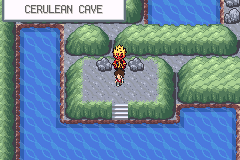
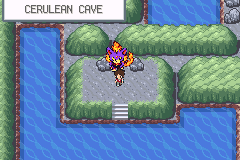
Give capturable feline Enma its own overworld, preserve human Lord Enma and verify native unlock, Pokedex flags and unique capture

Changed region(s): [[0.4375, 0.25, 0.5542, 0.4688]]

diff --git a/tools/yokai/verifier_rom.py b/tools/yokai/verifier_rom.py
@@ -135,6 +135,13 @@ if enma.exists():
     im=Image.open(enma/'kyubi_overworld.png');assert im.size==(32,32)
     assert data('gObjectEventPic_YokaiKyubi')==encode4(im)
     assert data('gObjectEventPal_YokaiEnma')==(enma/'normal.gbapal').read_bytes()
+enma_creature=R/'graphics/yokai_characters/enma_creature'
+if enma_creature.exists():
+    im=Image.open(enma_creature/'overworld.png');assert im.size==(32,32) and im.mode=='P' and im.info.get('transparency')==0
+    assert data('gObjectEventPic_YokaiEnmaCreature')==encode4(im)
+    assert data('gObjectEventPal_YokaiEnmaCreature')==(enma_creature/'normal.gbapal').read_bytes()
+    assert '"OBJ_EVENT_GFX_YOKAI_ENMA_CREATURE"' in (R/'data/maps/CeruleanCave_B1F/map.json').read_text()
+    assert '"OBJ_EVENT_GFX_YOKAI_ENMA"' in (R/'data/maps/MtEmber_Summit/map.json').read_text()
 protagonists_active='graphics/yokai_characters/nathan/normal.4bpp' in (R/'src/data/object_events/object_event_graphics.h').read_text()
 def encode8(im):
     return bytes(im.getpixel((tx+x,ty+y)) for ty in range(0,im.height,8) for tx in range(0,im.width,8) for y in range(8) for x in range(8))
@@ -188,6 +195,6 @@ if boss_spec.exists():
         assert data('gObjectEventPal_Yokai'+group+'Group')==(root/'normal.gbapal').read_bytes()
         assert data('gObjectEventPic_Yokai'+person)==b''.join(encode4(ow.crop((x,0,x+width,32))) for x in range(0,width*3,width))
         boss_cameo_frames+=4
-report={'rom_sha256':hashlib.sha256(rom).hexdigest(),'rom_size':len(rom),'species_stats_and_abilities_verified':151,'encoded_display_names_verified':151,'linked_graphic_resources_verified':checks,'historical_graphics_preserved_except_whitelist':True,'evolution_edges_verified':len(evolutions),'linked_learnsets_verified':151,'french_move_and_ability_labels_verified':len(json.loads((R/'data/yokai/libelles_attaques_talents.json').read_text())),'matt_native_frames_verified':12 if matt.exists() else 0,'ariane_and_usapion_native_frames_verified':5 if ariane.exists() else 0,'enma_and_kyubi_native_frames_verified':5 if enma.exists() else 0,'protagonist_native_frame_slots_verified':146 if protagonists_active else 0,'matt_additional_intro_and_credit_frames_verified':7 if protagonists_active else 0,'additional_adventure_cameo_native_frames_verified':cameo_extra_frames,'postgame_boss_cameo_native_frames_verified':boss_cameo_frames,'emulator_tests':False,'final_shiny_artwork_validated':False,'verdict':'JALON DONNEES/GRAPHISMES LIE ; RECETTE COMPLETE NON TERMINEE'}
+report={'rom_sha256':hashlib.sha256(rom).hexdigest(),'rom_size':len(rom),'species_stats_and_abilities_verified':151,'encoded_display_names_verified':151,'linked_graphic_resources_verified':checks,'historical_graphics_preserved_except_whitelist':True,'evolution_edges_verified':len(evolutions),'linked_learnsets_verified':151,'french_move_and_ability_labels_verified':len(json.loads((R/'data/yokai/libelles_attaques_talents.json').read_text())),'matt_native_frames_verified':12 if matt.exists() else 0,'ariane_and_usapion_native_frames_verified':5 if ariane.exists() else 0,'enma_and_kyubi_native_frames_verified':5 if enma.exists() else 0,'distinct_enma_creature_frame_verified':1 if enma_creature.exists() else 0,'protagonist_native_frame_slots_verified':146 if protagonists_active else 0,'matt_additional_intro_and_credit_frames_verified':7 if protagonists_active else 0,'additional_adventure_cameo_native_frames_verified':cameo_extra_frames,'postgame_boss_cameo_native_frames_verified':boss_cameo_frames,'emulator_tests':False,'final_shiny_artwork_validated':False,'verdict':'JALON DONNEES/GRAPHISMES LIE ; RECETTE COMPLETE NON TERMINEE'}
 out=R/'QA_RECETTE_FINALE/RECONSTRUCTION/CONTROLE_ROM.json';out.parent.mkdir(parents=True,exist_ok=True);out.write_text(json.dumps(report,ensure_ascii=False,indent=2)+'\n')
 print(json.dumps(report,ensure_ascii=False,indent=2))

diff --git a/src/event_object_movement.c b/src/event_object_movement.c
@@ -475,6 +475,7 @@ static const u8 gInitialMovementTypeFacingDirections[MOVEMENT_TYPES_COUNT] = {
 #define OBJ_EVENT_PAL_TAG_YOKAI_MORLEONE_GROUP 0x1125
 #define OBJ_EVENT_PAL_TAG_YOKAI_FRIEND                 0x1120
 #define OBJ_EVENT_PAL_TAG_YOKAI_PLAYER_BRIDGE          0x111F
+#define OBJ_EVENT_PAL_TAG_YOKAI_ENMA_CREATURE 0x1126
 #define OBJ_EVENT_PAL_TAG_YOKAI_ENMA                  0x111E
 #define OBJ_EVENT_PAL_TAG_ARIANE                      0x111D
 #define OBJ_EVENT_PAL_TAG_MATT                        0x111C
@@ -497,6 +498,7 @@ static const struct SpritePalette sObjectEventSpritePalettes[] = {
     {gObjectEventPal_YokaiDonMorleoneGroup, OBJ_EVENT_PAL_TAG_YOKAI_MORLEONE_GROUP},
     {gObjectEventPal_Matt, OBJ_EVENT_PAL_TAG_MATT},
     {gObjectEventPal_Ariane, OBJ_EVENT_PAL_TAG_ARIANE},
+    {gObjectEventPal_YokaiEnmaCreature, OBJ_EVENT_PAL_TAG_YOKAI_ENMA_CREATURE},
     {gObjectEventPal_YokaiEnma, OBJ_EVENT_PAL_TAG_YOKAI_ENMA},
     {gObjectEventPal_YokaiPlayerBridge, OBJ_EVENT_PAL_TAG_YOKAI_PLAYER_BRIDGE},
     {gObjectEventPal_NpcBlue,                 OBJ_EVENT_PAL_TAG_NPC_BLUE},
@@ -532,6 +534,7 @@ static const u16 sYokaiDomniscianGroupReflectionPaletteTags[] = {OBJ_EVENT_PAL_T
 
 static const u16 sYokaiDonMorleoneGroupReflectionPaletteTags[] = {OBJ_EVENT_PAL_TAG_YOKAI_MORLEONE_GROUP, OBJ_EVENT_PAL_TAG_YOKAI_MORLEONE_GROUP, OBJ_EVENT_PAL_TAG_YOKAI_MORLEONE_GROUP, OBJ_EVENT_PAL_TAG_YOKAI_MORLEONE_GROUP};
 
+static const u16 sYokaiEnmaCreatureReflectionPaletteTags[] = {OBJ_EVENT_PAL_TAG_YOKAI_ENMA_CREATURE, OBJ_EVENT_PAL_TAG_YOKAI_ENMA_CREATURE, OBJ_EVENT_PAL_TAG_YOKAI_ENMA_CREATURE, OBJ_EVENT_PAL_TAG_YOKAI_ENMA_CREATURE};
 static const u16 sYokaiEnmaReflectionPaletteTags[] = {OBJ_EVENT_PAL_TAG_YOKAI_ENMA, OBJ_EVENT_PAL_TAG_YOKAI_ENMA, OBJ_EVENT_PAL_TAG_YOKAI_ENMA, OBJ_EVENT_PAL_TAG_YOKAI_ENMA};
 
 static const u16 sArianeReflectionPaletteTags[] = {OBJ_EVENT_PAL_TAG_ARIANE, OBJ_EVENT_PAL_TAG_ARIANE, OBJ_EVENT_PAL_TAG_ARIANE, OBJ_EVENT_PAL_TAG_ARIANE};
@@ -655,6 +658,7 @@ static const struct PairedPalettes gSpecialObjectReflectionPaletteSets[] = {
     {OBJ_EVENT_PAL_TAG_YOKAI_WYATT, sYokaiWyattReflectionPaletteTags},
     {OBJ_EVENT_PAL_TAG_YOKAI_DOMNISCIAN_GROUP, sYokaiDomniscianGroupReflectionPaletteTags},
     {OBJ_EVENT_PAL_TAG_YOKAI_MORLEONE_GROUP, sYokaiDonMorleoneGroupReflectionPaletteTags},
+    {OBJ_EVENT_PAL_TAG_YOKAI_ENMA_CREATURE, sYokaiEnmaCreatureReflectionPaletteTags},
     {OBJ_EVENT_PAL_TAG_YOKAI_ENMA,          sYokaiEnmaReflectionPaletteTags},
     {OBJ_EVENT_PAL_TAG_YOKAI_FRIEND,        sYokaiFriendReflectionPaletteTags},
     {OBJ_EVENT_PAL_TAG_RS_SUBMARINE_SHADOW, sRSSubmarineShadowReflectionPaletteTags},

diff --git a/tools/yokai/convertir_enma_creature.py b/tools/yokai/convertir_enma_creature.py
@@ -1,0 +1,20 @@
+#!/usr/bin/env python3
+"""Technical crop, nearest-neighbor sampling and GBA indexing of original artwork."""
+from pathlib import Path
+import hashlib,json
+from PIL import Image
+ROOT=Path(__file__).resolve().parents[2];D=ROOT/'graphics/yokai_characters/enma_creature';source=D/'source/generated-sprite.png'
+im=Image.open(source).convert('RGBA');alpha=im.getchannel('A').point(lambda v:255 if v>=128 else 0);im.putalpha(alpha);box=alpha.getbbox();assert box
+crop=im.crop(box);scale=min(30/crop.width,31/crop.height);crop=crop.resize((max(1,round(crop.width*scale)),max(1,round(crop.height*scale))),Image.Resampling.NEAREST)
+frame=Image.new('RGBA',(32,32));frame.alpha_composite(crop,((32-crop.width)//2,32-crop.height))
+# Quantization is solely technical; the source drawing and original species assets stay intact.
+colors=[rgb[:3] for rgb in frame.getdata() if rgb[3]];atlas=Image.new('RGB',(len(colors),1));atlas.putdata(colors)
+quantized=atlas.quantize(colors=15,method=Image.Quantize.MEDIANCUT);raw=quantized.getpalette();palette=[(0,0,0)]+[tuple((v>>3)*255//31 for v in raw[i:i+3]) for i in range(0,45,3)]
+indexed=Image.new('P',(32,32));indexed.putpalette([v for rgb in palette for v in rgb]+[0]*720)
+indexed.putdata([0 if not a else min(range(1,16),key=lambda k:sum((v-p)**2 for v,p in zip((r,g,b),palette[k]))) for r,g,b,a in frame.getdata()]);indexed.info['transparency']=0;indexed.save(D/'overworld.png',bits=4,transparency=0)
+(D/'normal.pal').write_text('JASC-PAL\n0100\n16\n'+'\n'.join(' '.join(map(str,c)) for c in palette)+'\n')
+preview=Image.new('RGB',(256,256));pix=preview.load()
+for y in range(256):
+ for x in range(256):pix[x,y]=(224,224,224) if (x//16+y//16)%2 else (176,176,176)
+sprite=indexed.convert('RGBA').resize((256,256),Image.Resampling.NEAREST);preview.paste(sprite,(0,0),sprite);preview.save(D/'preview-checkerboard.png')
+(D/'conversion.json').write_text(json.dumps({'species':150,'species_constant':'SPECIES_MEWTWO','role':'Capturable artificial celestial feline Enma, not human Lord Enma NPC','source_sha256':hashlib.sha256(source.read_bytes()).hexdigest(),'source_dimensions':list(im.size),'crop':box,'native_dimensions':[32,32],'transparent_index':0,'palette_colors':16,'animation':'Single stationary front frame, native inanimate object; no movement scene','reference':'graphics/yokai/150/front.png; approved battle art untouched'},ensure_ascii=False,indent=2)+'\n')

diff --git a/tools/yokai/tester_enma_mgba.py b/tools/yokai/tester_enma_mgba.py
@@ -117,12 +117,17 @@ try:
  r.w32(r.symbols['gBattleTypeFlags'],0)
  interact();frames=fight_until(0x303)
  assert flag(0x303) and not flag(0x305)
+ assert r.call('GetSetPokedexFlag',150,1)==0, 'Trainer victory must not mark Enma caught'
  results.append({'test':'Native six-member approved team and actual victory unlock persistent Enma flag','frames':frames,'passed':True})
  strong();before=r.call('GetGameStat',9)
  interact();frames=fight_until(0x303)
  assert r.call('GetGameStat',9)==before+1
  results.append({'test':'Voluntary rematch completes, no extra item reward','frames':frames,'passed':True})
  warp(1,74,7,13);assert visible(3,74,1)
+ enma_object=r.call('GetObjectEventIdByLocalIdAndMap',3,74,1)
+ assert r.read(r.symbols['gObjectEvents']+enma_object*36+5,1)==bytes([168]), 'Capturable feline must not use Lord Enma NPC'
+ assert r.read(r.symbols['gPlttBufferUnfaded']+512+10*32,32)==(ROOT/'graphics/yokai_characters/enma_creature/normal.gbapal').read_bytes()
+ results.append({'test':'Capturable feline Enma uses distinct object168/palette, Lord Enma NPC remains154 at summit; trainer win did not mark creature caught','passed':True})
  r.frame.save(proof/'enma-debloque-caverne-azuree.png')
  assert flag(0x303)
  assert r.call('TrySavingData',0,max_frames=1200)==1
@@ -164,6 +169,7 @@ try:
   raise AssertionError('Actual Master Ball capture did not return to map')
  r.keys=set();finish_dialogue()
  assert flag(0x305) and flag(0x2BC) and not visible(3,74,1)
+ assert r.call('GetSetPokedexFlag',150,1)==1, 'Only actual capture marks Enma caught'
  assert r.call('GetMonData',r.symbols['gPlayerParty']+100,C['MON_DATA_SPECIES'],0)==150
  r.frame.save(proof/'enma-capture-unique.png')
  assert r.call('TrySavingData',0,max_frames=1200)==1

diff --git a/src/data/object_events/object_event_graphics_info_pointers.h b/src/data/object_events/object_event_graphics_info_pointers.h
@@ -11,6 +11,7 @@ const struct ObjectEventGraphicsInfo gObjectEventGraphicsInfo_YokaiNathaniel;
 const struct ObjectEventGraphicsInfo gObjectEventGraphicsInfo_YokaiNathan;
 const struct ObjectEventGraphicsInfo gObjectEventGraphicsInfo_YokaiKatie;
 const struct ObjectEventGraphicsInfo gObjectEventGraphicsInfo_YokaiEnma;
+const struct ObjectEventGraphicsInfo gObjectEventGraphicsInfo_YokaiEnmaCreature;
 const struct ObjectEventGraphicsInfo gObjectEventGraphicsInfo_YokaiKyubi;
 const struct ObjectEventGraphicsInfo gObjectEventGraphicsInfo_Ariane;
 const struct ObjectEventGraphicsInfo gObjectEventGraphicsInfo_UsapionCameo;
@@ -323,6 +324,7 @@ const struct ObjectEventGraphicsInfo *const gObjectEventGraphicsInfoPointers[NUM
     [OBJ_EVENT_GFX_SS_ANNE]                  = &gObjectEventGraphicsInfo_SSAnne,
     [OBJ_EVENT_GFX_ARIANE] = &gObjectEventGraphicsInfo_Ariane,
     [OBJ_EVENT_GFX_USAPION_CAMEO] = &gObjectEventGraphicsInfo_UsapionCameo,
+    [OBJ_EVENT_GFX_YOKAI_ENMA_CREATURE] = &gObjectEventGraphicsInfo_YokaiEnmaCreature,
     [OBJ_EVENT_GFX_YOKAI_ENMA] = &gObjectEventGraphicsInfo_YokaiEnma,
     [OBJ_EVENT_GFX_YOKAI_KYUBI] = &gObjectEventGraphicsInfo_YokaiKyubi,
     [OBJ_EVENT_GFX_YOKAI_NATHAN] = &gObjectEventGraphicsInfo_YokaiNathan,

diff --git a/src/data/object_events/object_event_graphics_info.h b/src/data/object_events/object_event_graphics_info.h
@@ -3209,3 +3209,14 @@ const struct ObjectEventGraphicsInfo gObjectEventGraphicsInfo_YokaiMafiamille3 =
     .images = sPicTable_YokaiMafiamille3,
     .affineAnims = gDummySpriteAffineAnimTable,
 };
+
+const struct ObjectEventGraphicsInfo gObjectEventGraphicsInfo_YokaiEnmaCreature = {
+    .tileTag = TAG_NONE, .paletteTag = OBJ_EVENT_PAL_TAG_YOKAI_ENMA_CREATURE,
+    .reflectionPaletteTag = OBJ_EVENT_PAL_TAG_NONE,
+    .size = 512, .width = 32, .height = 32,
+    .paletteSlot = PALSLOT_NPC_SPECIAL, .shadowSize = SHADOW_SIZE_M,
+    .inanimate = TRUE, .disableReflectionPaletteLoad = FALSE, .tracks = TRACKS_NONE,
+    .oam = &gObjectEventBaseOam_32x32, .subspriteTables = gObjectEventSpriteOamTables_32x32,
+    .anims = sAnimTable_Inanimate, .images = sPicTable_YokaiEnmaCreature,
+    .affineAnims = gDummySpriteAffineAnimTable,
+};

diff --git a/src/data/object_events/object_event_graphics.h b/src/data/object_events/object_event_graphics.h
@@ -269,3 +269,6 @@ const u16 gObjectEventPic_YokaiMafiamille3[] = INCBIN_U16("graphics/yokai_charac
 const u16 gObjectEventPal_YokaiDomniscianGroup[] = INCBIN_U16("graphics/yokai_characters/domniscian/normal.gbapal");
 
 const u16 gObjectEventPal_YokaiDonMorleoneGroup[] = INCBIN_U16("graphics/yokai_characters/don_morleone/normal.gbapal");
+
+const u16 gObjectEventPal_YokaiEnmaCreature[] = INCBIN_U16("graphics/yokai_characters/enma_creature/normal.gbapal");
+const u16 gObjectEventPic_YokaiEnmaCreature[] = INCBIN_U16("graphics/yokai_characters/enma_creature/overworld.4bpp");

diff --git a/include/constants/event_objects.h b/include/constants/event_objects.h
@@ -172,7 +172,8 @@
 #define OBJ_EVENT_GFX_YOKAI_MAFIAMILLE1 165
 #define OBJ_EVENT_GFX_YOKAI_MAFIAMILLE2 166
 #define OBJ_EVENT_GFX_YOKAI_MAFIAMILLE3 167
-#define NUM_OBJ_EVENT_GFX     168
+#define OBJ_EVENT_GFX_YOKAI_ENMA_CREATURE 168
+#define NUM_OBJ_EVENT_GFX     169
 
 // These are dynamic object gfx ids.
 // They correspond with the values of the VAR_OBJ_GFX_ID_X vars.

diff --git a/src/data/object_events/object_event_pic_tables.h b/src/data/object_events/object_event_pic_tables.h
@@ -1830,3 +1830,7 @@ static const struct SpriteFrameImage sPicTable_YokaiMafiamille3[] = {
     overworld_frame(gObjectEventPic_YokaiMafiamille3, 2, 4, 1),
     overworld_frame(gObjectEventPic_YokaiMafiamille3, 2, 4, 2),
 };
+
+static const struct SpriteFrameImage sPicTable_YokaiEnmaCreature[] = {
+    overworld_frame(gObjectEventPic_YokaiEnmaCreature, 4, 4, 0),
+};

diff --git a/QA_RECETTE_FINALE/RECONSTRUCTION/ETAT_REPRISE.md b/QA_RECETTE_FINALE/RECONSTRUCTION/ETAT_REPRISE.md
@@ -61,3 +61,5 @@ Pipeline DPCM : encodeur restauré, comparaison exacte des 710 échantillons syn
 Les dix quêtes deviennent facultatives et ne doivent pas passer avant les musiques et la stabilisation. Protagonistes et sept groupes caméos sont présents ; ne pas les refaire. Léo, overworld statiques manquants, 84 dessins shiny finaux (dessin Rob28 à cornes sauvegardé mais inactif), français intégral et recette d’aventure restent incomplets. **NON PRÊT**, aucune traversée complète annoncée.
 
 Préparation audio complétée : quatre scripts DPCM/test, extracteur libarchive et préparation batch ; vingt sources intégrales effectivement encodées, 23 248 952octets, trop volumineuses telles quelles (base + samples=36,92Mio >32Mio). Tous les thèmes requis sont disponibles. Rapports PREPARATION_20_OST_DPCM.md /MESURES_20_OST_DPCM.json ; aucune suppression décidée. Privé : `/workspace/private-audio/recovery/*.rar`, `/workspace/private-audio/extracted/manifest-private.json`, `/workspace/private-audio/dpcm-full-sources/encoding-metadata.json` et01..20.wav/.dpcm. Ne pas publier ces enregistrements. Prochaine tâche : choisir des sections intro/boucle, gagner les répétitions enregistrées, mesurer raccords et coûts, puis intégrer optionnellement sans ressources privées obligatoires pour le build public.
+
+Correction graphique Enma terminée : l’objet de Caverne Azurée partageait à tort le sprite du Seigneur Enma. Nouvelle ressource féline originale32×32 d’après le front validé150, ID168/palette1126, source et conversion suivies ; Seigneur Enma humain inchangé154 au Mont Braise. Build et tests natifs refus/défaite/victoire/revanches/Flash/vraie capture réussis ; le Médallium n’enregistre pas de capture lors de la victoire contre le dresseur. Capture carte examinée. Rapport DISTINCTION_GRAPHIQUE_ENMA.md ; ROM locale c8cea690… . Les anciennes preuves de clones portent leurs propres empreintes et ne valident pas automatiquement cette nouvelle ressource.

diff --git a/QA_RECETTE_FINALE/RECONSTRUCTION/DISTINCTION_GRAPHIQUE_ENMA.md b/QA_RECETTE_FINALE/RECONSTRUCTION/DISTINCTION_GRAPHIQUE_ENMA.md
@@ -1,0 +1,11 @@
+# Correction : la créature Enma utilisait le sprite du personnage
+
+Le contrôle des nouvelles directives a confirmé que les deux événements partageaient OBJ_EVENT_GFX_YOKAI_ENMA154. Ce dessin représente le Seigneur Enma humain ; il ne correspond pas au félin violet à flammes du sprite de combat approuvé de l’espèce150. Les tests précédents prouvaient le déblocage et la capture mais ne détectaient pas cette confusion graphique.
+
+Une ressource originale dédiée est créée à partir de `graphics/yokai/150/front.png`, sans redessiner ni modifier ce sprite de combat. Source conservée dans `graphics/yokai_characters/enma_creature/source/generated-sprite.png`, réduction technique et indexation par `tools/yokai/convertir_enma_creature.py`, palette normale16entrées RGB555, index0 transparent, overworld32×32. L’aperçu sur damier est un vrai PNG opaque. Une seule pose frontale est adaptée à cette rencontre stationnaire ; elle utilise les animations natives inanimées.
+
+L’identifiant168 est ajouté après les anciens, sans les renuméroter. Palette dédiée0x1126 et table de reflet. **Seul l’objet capturable de CeruleanCave_B1F change d’affectation**. Le Seigneur Enma demeure154 au Mont Braise ; portrait, équipe, dialogues, Kyubi, scripts, flags de déblocage et capture sont conservés. Aucun changement de sauvegarde ou de données des151espèces.
+
+Contrôles : build, ressources liées comparées à l’indexation4bpp attendue, palette et dimensions, test natif Enma étendu pour vérifier l’identifiant de créature et sa palette chargée. Le drapeau Médallium capturé est également vérifié absent après victoire du dresseur et présent uniquement après la véritable capture. Voir TEST_ENMA_MGBA.json et la capture `preuves/enma-debloque-caverne-azuree.png`.
+
+Cette correction ne valide pas encore Misterre, Mademoaiselle et Octorgone : leurs overworld dédiés restent à traiter. Aucun parcours intégral n’est annoncé.

diff --git a/docs/yokai-characters/README.md b/docs/yokai-characters/README.md
@@ -23,3 +23,11 @@ Nathan/Katie disposent des séries de déplacement/action et des écrans seconda
 - [Don Morleone](../../graphics/yokai_characters/don_morleone/preview-checkerboard.png), [Mafiamille1](../../graphics/yokai_characters/mafiamille_1/preview-checkerboard.png), [Mafiamille2](../../graphics/yokai_characters/mafiamille_2/preview-checkerboard.png), [Mafiamille3](../../graphics/yokai_characters/mafiamille_3/preview-checkerboard.png).
 
 Ces sept portraits et leurs overworld sont actifs. Chaque groupe utilise une palette commune vérifiée dans la mémoire de mGBA. [Domniscian et employés, quatre orientations](../../QA_RECETTE_FINALE/RECONSTRUCTION/preuves/cameo-domniscian-groupe-directions.png) ; [Don Morleone et Mafiamille, quatre orientations](../../QA_RECETTE_FINALE/RECONSTRUCTION/preuves/cameo-morleone-groupe-directions.png). Les combats, prérequis et récompenses sont contrôlés dans TEST_CAMEOS_BOSS_MGBA.json ; les musiques personnelles restent en attente.
+
+## Enma : personnage et créature distincts
+
+Le Seigneur Enma du Mont Braise conserve son portrait de dresseur et ses trois poses de PNJ. Le Yo-kai Enma capturable de la Caverne Azurée possède désormais un overworld félin violet à flammes, adapté de son sprite de combat validé n°150. Les données de l’espèce et les conditions de capture ne changent pas.
+
+![Créature Enma — aperçu sur damier](../../graphics/yokai_characters/enma_creature/preview-checkerboard.png)
+
+Ressources : `graphics/yokai_characters/enma_creature/` ; dessin source conservé, conversion technique reproductible avec `tools/yokai/convertir_enma_creature.py`. Une pose statique32×32, palette4bpp15couleurs opaques +index0 transparent ; animation inanimée native, aucune marche requise pour cette rencontre.
